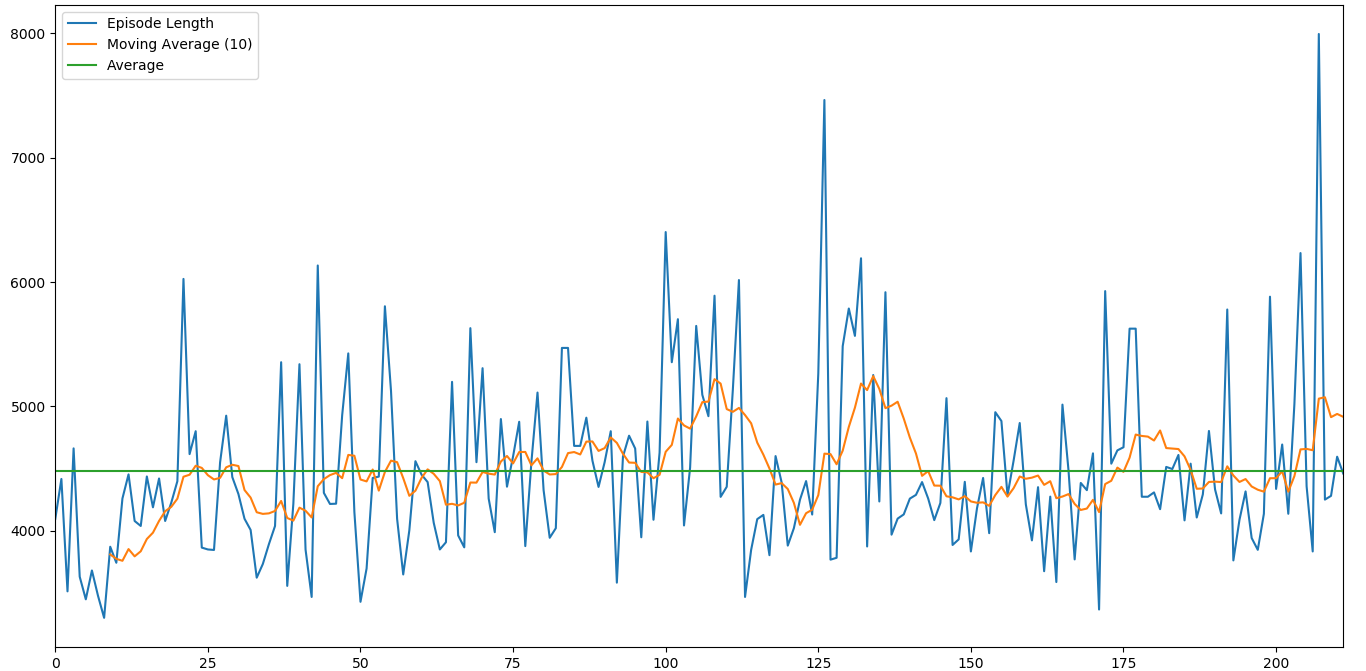
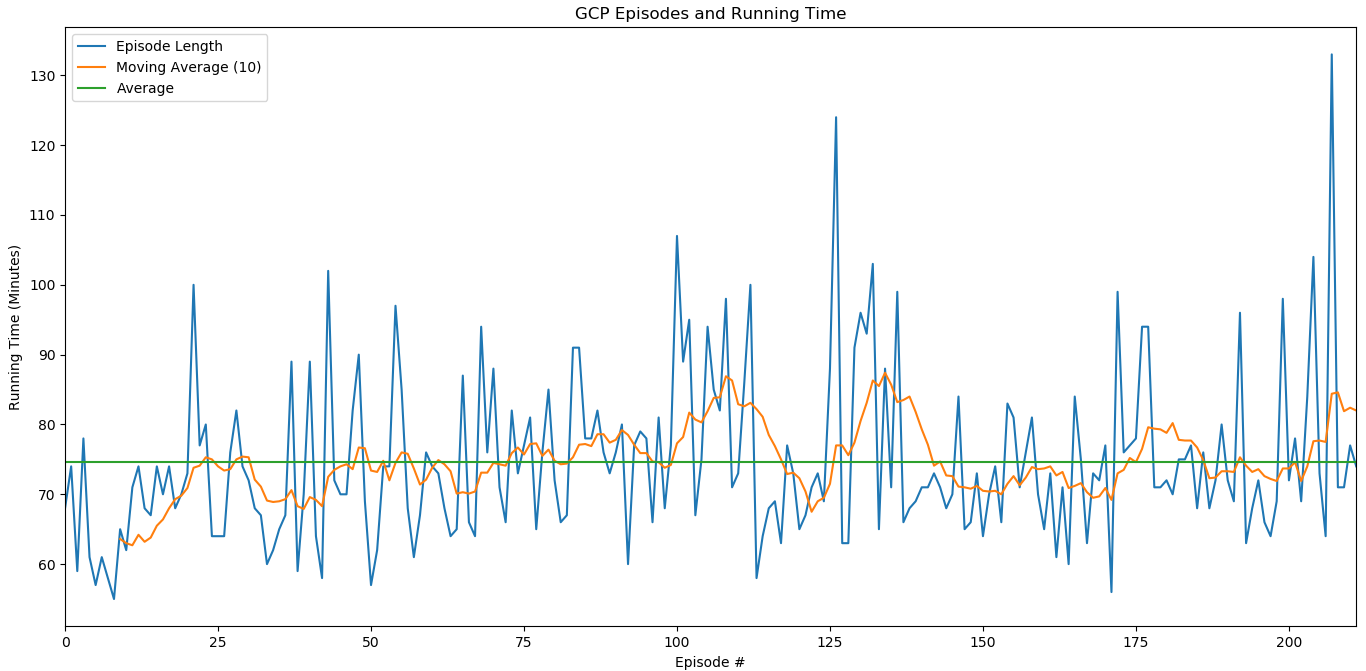
Updated figure, added labels, converted to minutes

diff --git a/scraper.py b/scraper.py
@@ -16,7 +16,7 @@ for entry in feed['entries']:
 times = []
 names = []
 for x in outer_list[::-1]: # Iterate backwards from oldest to most recent
-    times.append(int(x[1]))
+    times.append(round(float(x[1]) / 60 ))
     names.append(x[0])
 
 print(times)
@@ -26,7 +26,9 @@ df = pd.DataFrame(data = data_set, columns=['Episode', 'Episode Length'])
 df['Moving Average (10)'] = df['Episode Length'].rolling(10).mean()
 df['Average'] = df['Episode Length'].mean()
 
-lines = df.plot.line()
+lines = df.plot.line(title='GCP Episodes and Running Time')
+lines.set_xlabel("Episode #")
+lines.set_ylabel("Running Time (Minutes)")
 
 
 plt.show()
